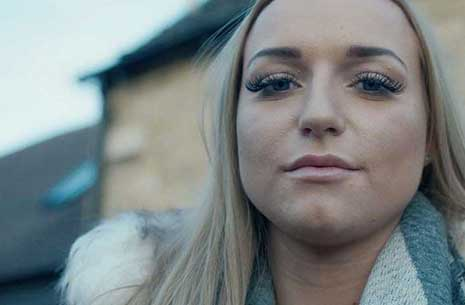
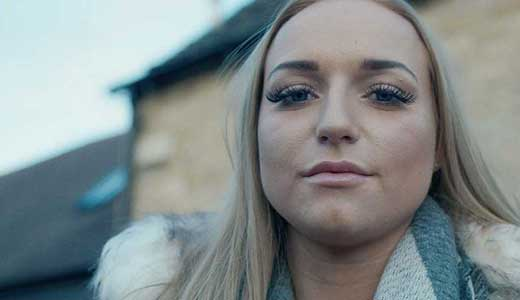
Homepage images masks

diff --git a/src/fiu/components/panel/_panel.scss b/src/fiu/components/panel/_panel.scss
@@ -47,12 +47,11 @@
   background-image: url("../assets/images/design/warehouse-purple.jpg");
 }
 
-
 /* Homepage version of the panel */
 
 .fiu-panel-homepage {
   text-align: center;
-  padding: 30px;
+  padding: 70px 30px 30px;
   margin-bottom: 15px;
   height: 100%;
   display: block;
@@ -93,6 +92,7 @@
   z-index: 2;
   width: 100%;
   height: 100%;
-  background: url("../assets/images/page-headers/page-header-mask.png");
+  background: url("../assets/images/panels/mask.png");
   background-size: cover;
+  background-position: top;
 }

diff --git a/src/fiu/components/page-header/_page-header.scss b/src/fiu/components/page-header/_page-header.scss
@@ -91,6 +91,6 @@
     z-index: 2;
     width: 100%;
     height: 100%;
-    background: url("../assets/images/page-headers/page-header-mask.png");
+    background: url("../assets/images/page-headers/mask.png");
     background-size: cover;
 }
